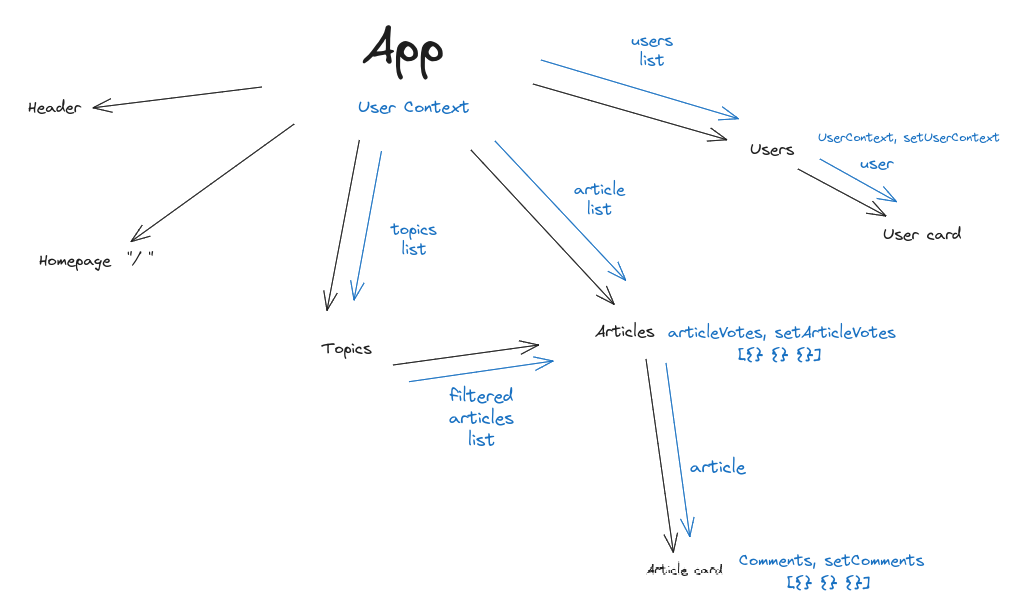
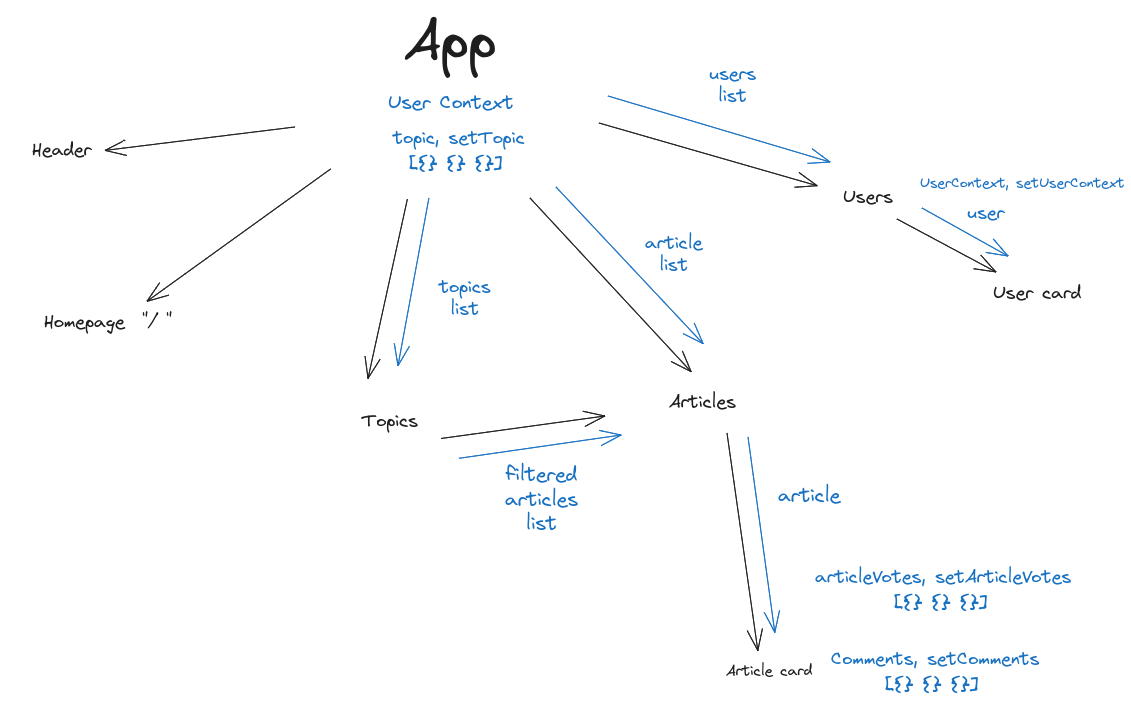
Created Single Article Page, updated Project Plans to include topic state.

diff --git a/src/Components/ArticlePage.jsx b/src/Components/ArticlePage.jsx
@@ -1,0 +1,39 @@
+import axios from "axios";
+import { useEffect, useState } from "react";
+import { useParams } from "react-router-dom";
+
+export default function ArticlePage() {
+  const { article_id } = useParams();
+
+  const [singleArticle, setSingleArticle] = useState({});
+  const [isLoading, setIsLoading] = useState(true);
+
+  useEffect(() => {
+    axios
+      .get(
+        `https://nc-news-backend-wuav.onrender.com/api/articles/${article_id}`
+      )
+      .then(
+        ({
+          data: {
+            article: [singleArticle],
+          },
+        }) => {
+          setSingleArticle(singleArticle);
+          setIsLoading(false);
+        }
+      );
+  }, []);
+
+  return isLoading ? (
+    <h2>Loading..</h2>
+  ) : (
+    <div className="single-article-page">
+      <h1>{singleArticle.title}</h1>
+      <h2>{singleArticle.author}</h2>
+      <h3>{singleArticle.created_at}</h3>
+      <img className="single-article-img" src={singleArticle.article_img_url} />
+      <p className="single-article-body">{singleArticle.body}</p>
+    </div>
+  );
+}

diff --git a/src/Components/Articles.jsx b/src/Components/Articles.jsx
@@ -3,24 +3,25 @@ import ArticleCard from "./ArticleCard";
 import axios from "axios";
 
 export default function Articles() {
-  const [articles, setArticles] = useState("");
   const [isLoading, setIsLoading] = useState(true);
+  const [articleList, setArticleList] = useState([]);
 
   useEffect(() => {
     axios
       .get("https://nc-news-backend-wuav.onrender.com/api/articles")
       .then(({ data: { articles } }) => {
-        setArticles(articles);
+        setArticleList(articles);
         setIsLoading(false);
       });
-  });
+  }, []);
 
-  if (isLoading) return <h3>Loading...</h3>;
-  return (
+  return isLoading ? (
+    <h3>Loading...</h3>
+  ) : (
     <div>
       <h1>Catch up with the latest news</h1>
       <ul className="articles">
-        {articles.map((article) => (
+        {articleList.map((article) => (
           <ArticleCard article={article} key={article.article_id} />
         ))}
       </ul>

diff --git a/src/Components/ArticleCard.jsx b/src/Components/ArticleCard.jsx
@@ -1,13 +1,18 @@
+import { Link } from "react-router-dom";
+
 export default function ArticleCard({ article }) {
   const { article_id, author, title, topic, votes, article_img_url } = article;
 
   return (
     <li className="article-card">
-      <img src={article_img_url} />
+      <img className="article-card-img" src={article_img_url} />
       <h3> {title}</h3>
       <h4> {author}</h4>
       <p> {topic}</p>
       <p>{votes}</p>
+      <Link to={`/articles/${article_id}`}>
+        <button>Read Article</button>
+      </Link>
     </li>
   );
 }

diff --git a/src/App.jsx b/src/App.jsx
@@ -3,6 +3,7 @@ import "./App.css";
 import { Route, Routes } from "react-router-dom";
 import Header from "./Components/Header";
 import Articles from "./Components/Articles";
+import ArticlePage from "./Components/ArticlePage";
 
 function App() {
   return (
@@ -10,6 +11,7 @@ function App() {
       <Header />
       <Routes>
         <Route path="/articles" element={<Articles />} />
+        <Route path="/articles/:article_id" element={<ArticlePage />} />
       </Routes>
     </>
   );

diff --git a/src/App.css b/src/App.css
@@ -53,7 +53,7 @@ li {
   }
 }
 
-img {
+.article-card-img {
   max-width: 350px;
   height: auto;
 }
@@ -70,4 +70,13 @@ img {
   padding: 10px;
   font-family: Arial, Helvetica, sans-serif;
   max-width: 350px;
+}
+
+.single-article-img {
+  max-width: 600px;
+  margin: 15px;
+}
+
+.single-article-body {
+  margin: 15px;
 }
